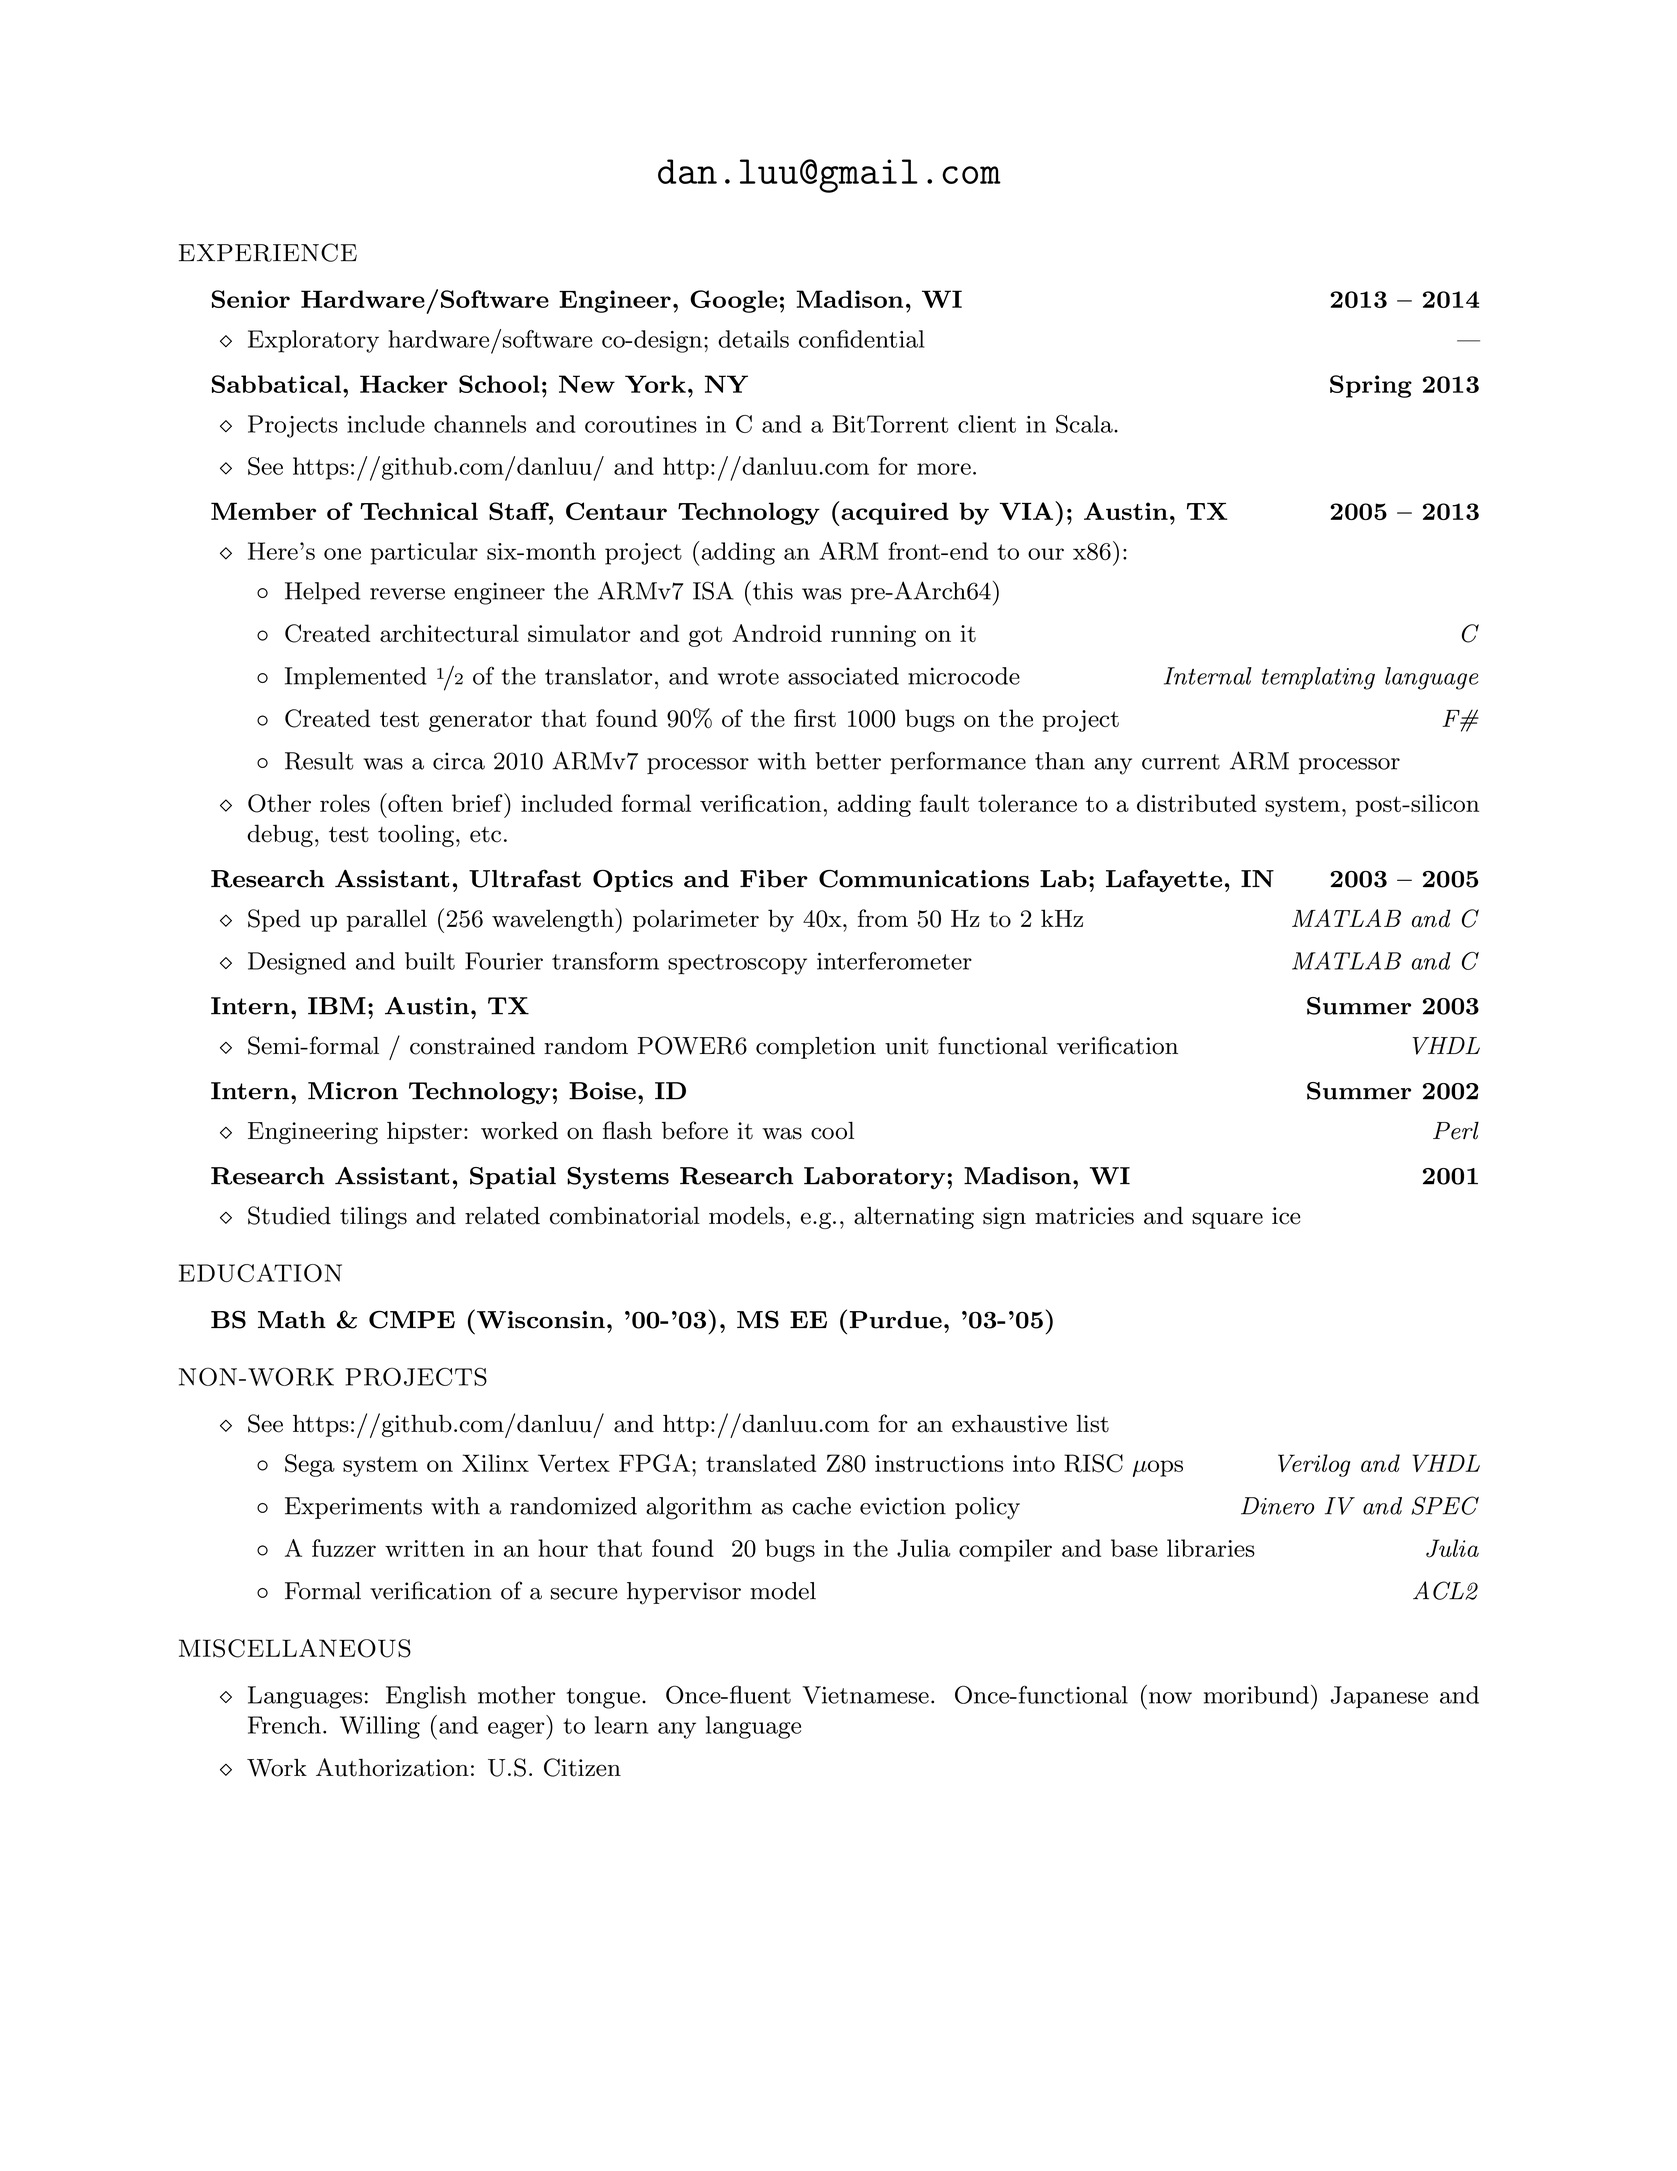
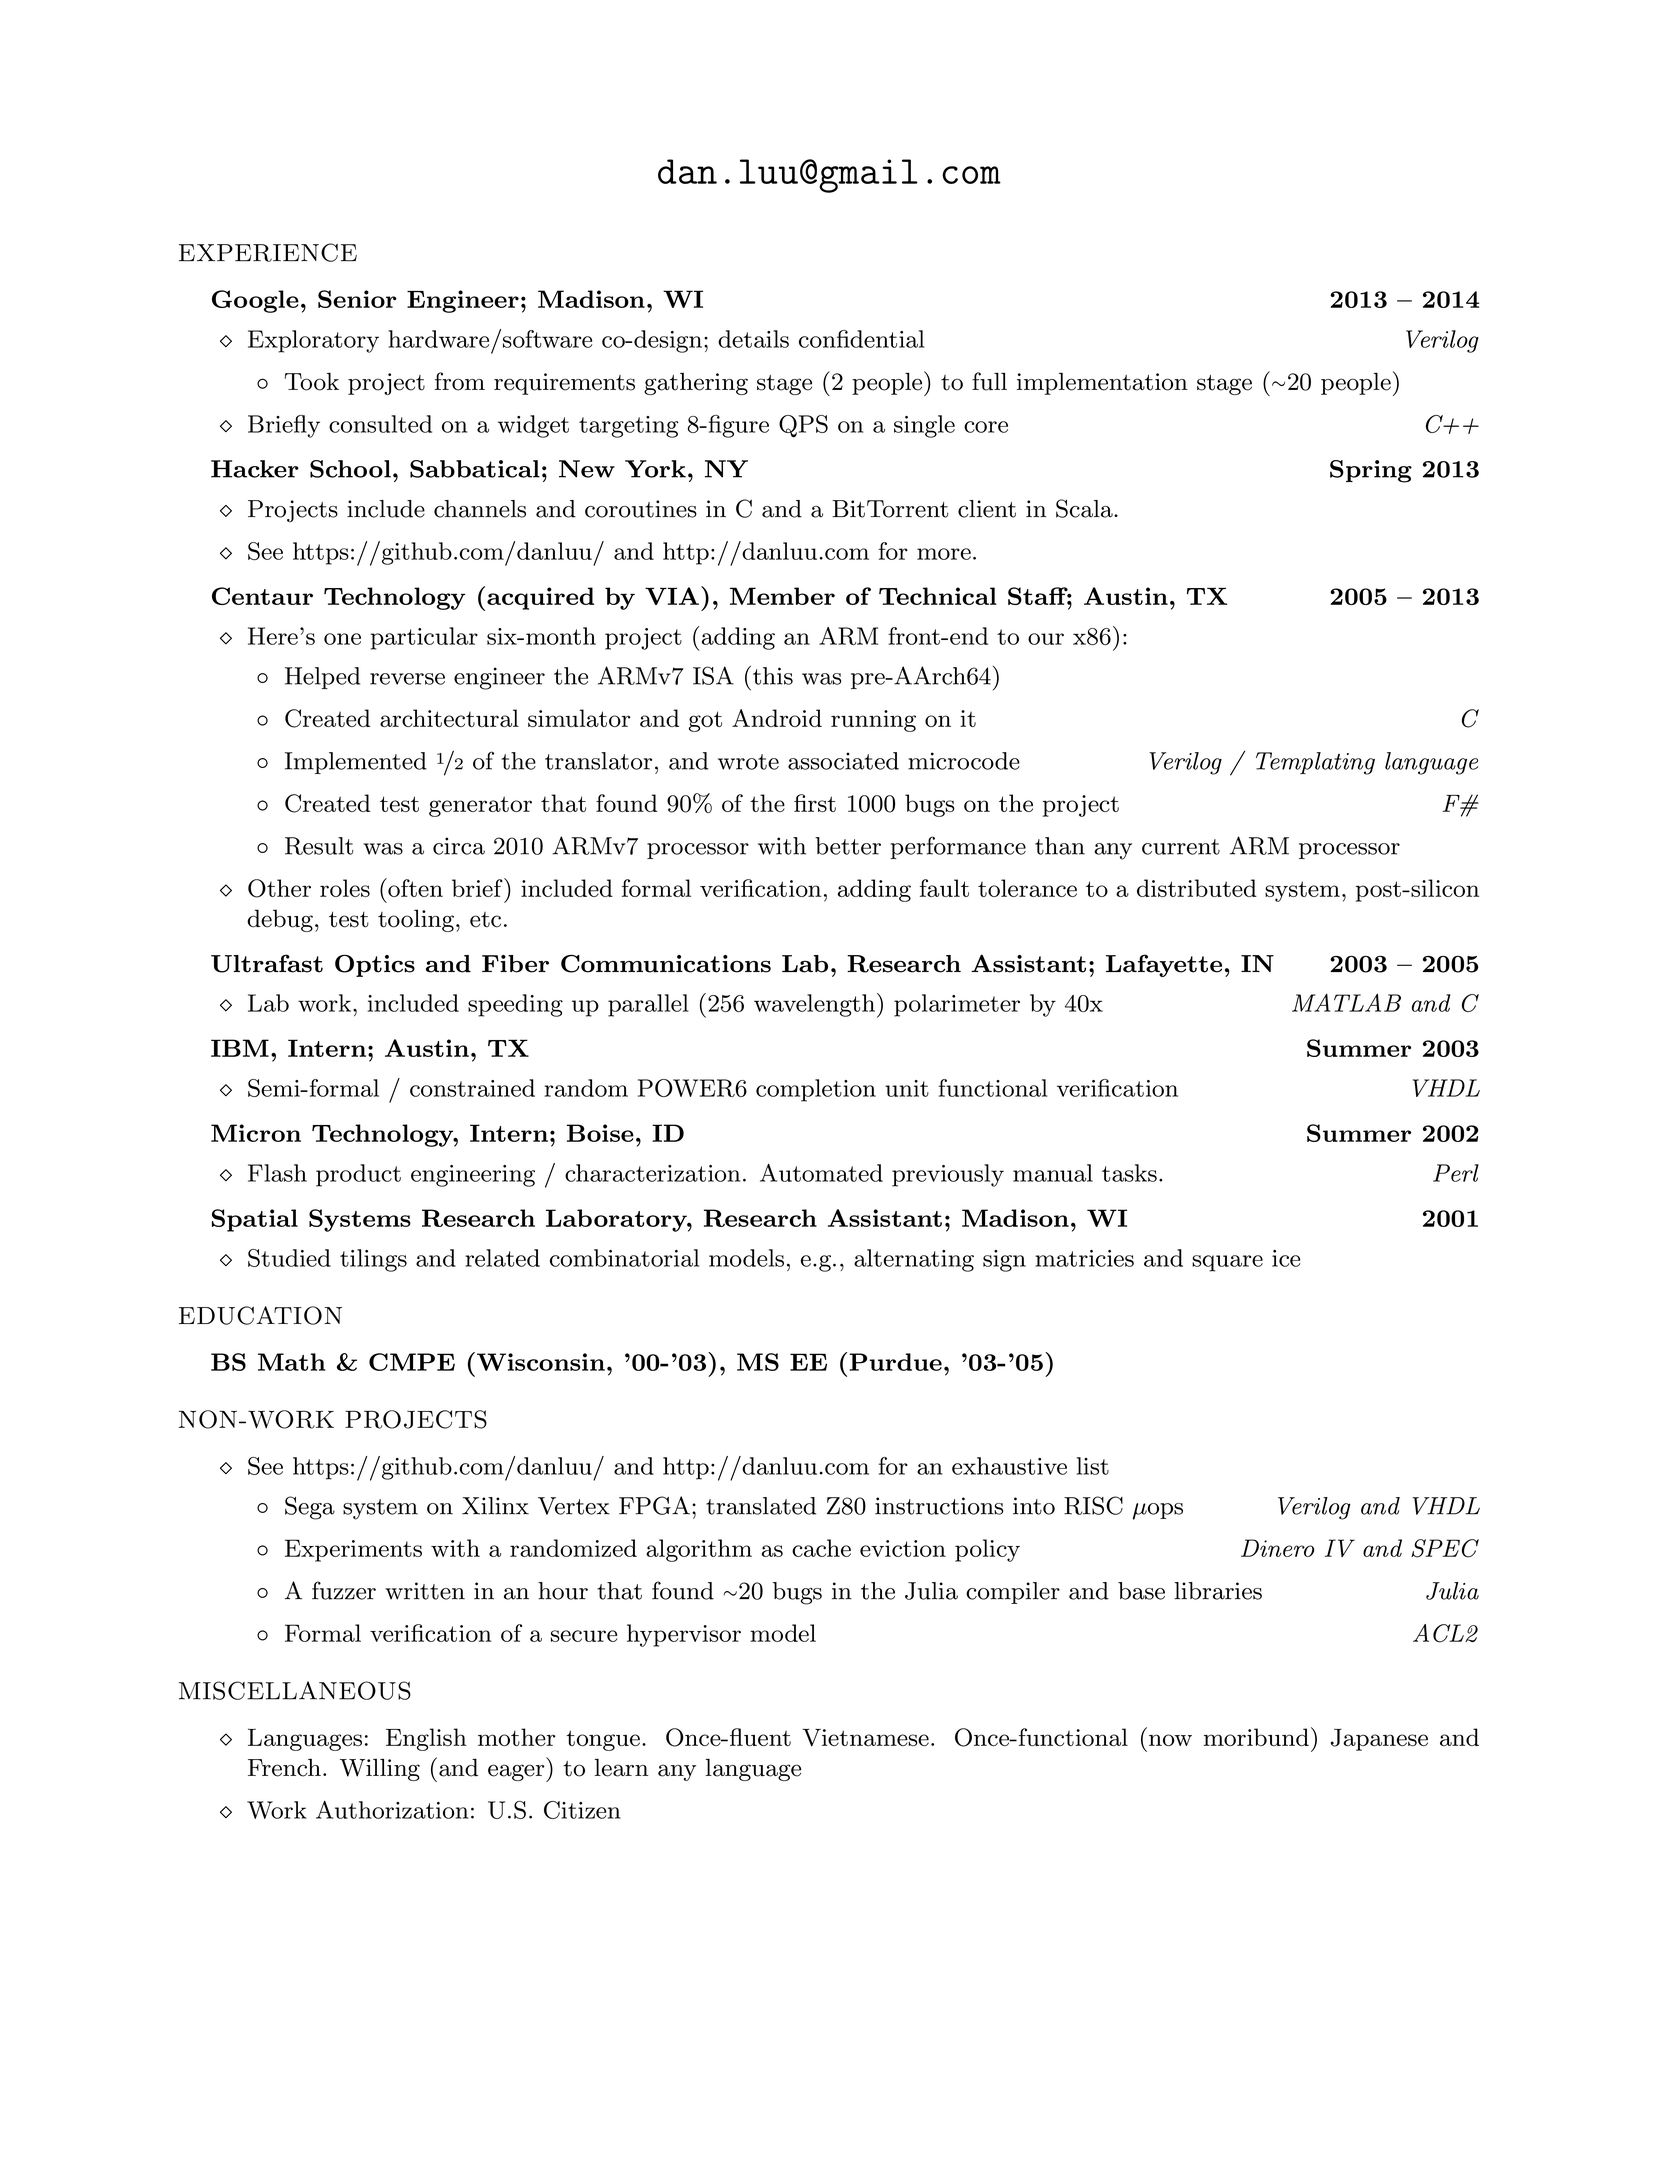
Add more info.

diff --git a/resume.tex b/resume.tex
@@ -33,19 +33,24 @@
 
 \begin{list1}
 
-\item \begin{tabular1bold} Senior Hardware/Software Engineer, Google; Madison, WI & 2013 -- 2014 \end{tabular1bold}
+\item \begin{tabular1bold} Google, Senior Engineer; Madison, WI & 2013 -- 2014 \end{tabular1bold}
 
   \begin{list2}
-  \item Exploratory hardware/software co-design; details confidential \hfill \emph{---} %FIXME: mixing tenses
+  \item Exploratory hardware/software co-design; details confidential \hfill \emph{Verilog}
+
+    \begin{list3}
+      \item Took project from requirements gathering stage (2 people) to full implementation stage ({\raise.17ex\hbox{$\scriptstyle\mathtt{\sim}$}}20 people)
+    \end{list3}
+    \item Briefly consulted on a widget targeting 8-figure QPS on a single core \hfill \emph{C++}
   \end{list2}
 
-\item \begin{tabular1bold} Sabbatical, Hacker School; New York, NY & Spring 2013 \end{tabular1bold}
+\item \begin{tabular1bold} Hacker School, Sabbatical; New York, NY & Spring 2013 \end{tabular1bold}
 
   \begin{list2}
   \item Projects include channels and coroutines in C and a BitTorrent client in Scala.
   \item See https://github.com/danluu/ and http://danluu.com for more.
   \end{list2}
-\item \begin{tabular1bold} Member of Technical Staff, Centaur Technology (acquired by VIA); Austin, TX & 2005 -- 2013 \end{tabular1bold}
+\item \begin{tabular1bold} Centaur Technology (acquired by VIA), Member of Technical Staff; Austin, TX & 2005 -- 2013 \end{tabular1bold}
 
   %\begin{adjustwidth}{1.5em}{1.5em}
   \begin{list2}
@@ -53,7 +58,7 @@
     \begin{list3}
     \item Helped reverse engineer the ARMv7 ISA (this was pre-AArch64)
     \item Created architectural simulator and got Android running on it\hfill \emph{C}
-    \item Implemented \nicefrac{1}{2} of the translator, and wrote associated microcode \hfill \emph{Internal templating language}
+    \item Implemented \nicefrac{1}{2} of the translator, and wrote associated microcode \hfill \emph{Verilog / Templating language}
     \item Created test generator that found 90\% of the first 1000 bugs on the project \hfill \emph{F\#}
     \item Result was a circa 2010 ARMv7 processor with better performance than any current ARM processor
     \end{list3}
@@ -62,25 +67,25 @@
   \end{list2}
   %\end{adjustwidth}
 
-\item \begin{tabular1bold} Research Assistant, Ultrafast Optics and Fiber Communications Lab; Lafayette, IN & 2003 -- 2005 \end{tabular1bold}
+\item \begin{tabular1bold} Ultrafast Optics and Fiber Communications Lab, Research Assistant; Lafayette, IN & 2003 -- 2005 \end{tabular1bold}
 
   \begin{list2}
-  \item Sped up parallel (256 wavelength) polarimeter by 40x, from 50 Hz to 2 kHz \hfill \emph{MATLAB and C}
-  \item Designed and built Fourier transform spectroscopy interferometer \hfill \emph{MATLAB and C}
+  \item Lab work, included speeding up parallel (256 wavelength) polarimeter by 40x  \hfill \emph{MATLAB and C}
+%  \item Designed and built Fourier transform spectroscopy interferometer \hfill \emph{MATLAB and C}
   \end{list2}
 
-\item \begin{tabular1bold} Intern, IBM; Austin, TX & Summer 2003 \end{tabular1bold}
+\item \begin{tabular1bold} IBM, Intern; Austin, TX & Summer 2003 \end{tabular1bold}
 
   \begin{list2}
   \item Semi-formal / constrained random POWER6 completion unit functional verification \hfill \emph{VHDL}
   \end{list2}
 
-\item \begin{tabular1bold} Intern, Micron Technology; Boise, ID & Summer 2002 \end{tabular1bold}
+\item \begin{tabular1bold} Micron Technology, Intern; Boise, ID & Summer 2002 \end{tabular1bold}
 
   \begin{list2}
-  \item Engineering hipster: worked on flash before it was cool \hfill \emph{Perl}
+  \item Flash product engineering / characterization. Automated previously manual tasks. \hfill \emph{Perl}
   \end{list2}
-\item \begin{tabular1bold} Research Assistant, Spatial Systems Research Laboratory; Madison, WI & 2001 \end{tabular1bold}
+\item \begin{tabular1bold} Spatial Systems Research Laboratory, Research Assistant; Madison, WI & 2001 \end{tabular1bold}
 
   \begin{list2}
   \item Studied tilings and related combinatorial models, e.g., alternating sign matricies and square ice
@@ -108,10 +113,9 @@
     \begin{list3}
     \item Sega system on Xilinx Vertex FPGA; translated Z80 instructions into RISC $\mu$ops \hfill \emph{Verilog and VHDL}
     \item Experiments with a randomized algorithm as cache eviction policy \hfill \emph{Dinero IV and SPEC}
-    \item A fuzzer written in an hour that found ~20 bugs in the Julia compiler and base libraries \hfill \emph{Julia}
+    \item A fuzzer written in an hour that found {\raise.17ex\hbox{$\scriptstyle\mathtt{\sim}$}}20 bugs in the Julia compiler and base libraries \hfill \emph{Julia}
     \item Formal verification of a secure hypervisor model \hfill \emph{ACL2}
     \end{list3}
-
 
   \end{list2}
 \end{list1}
